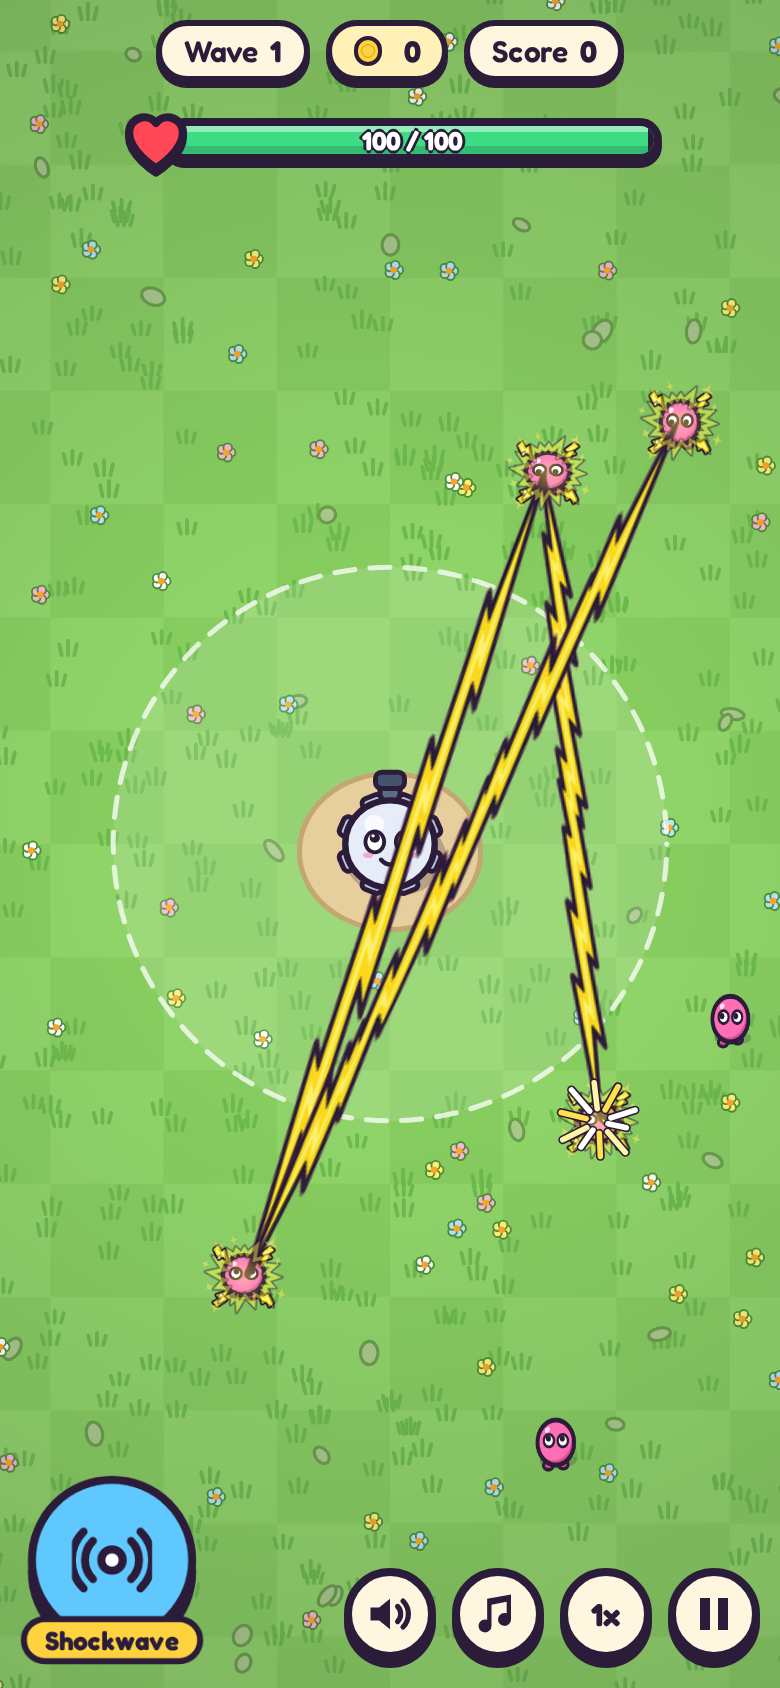
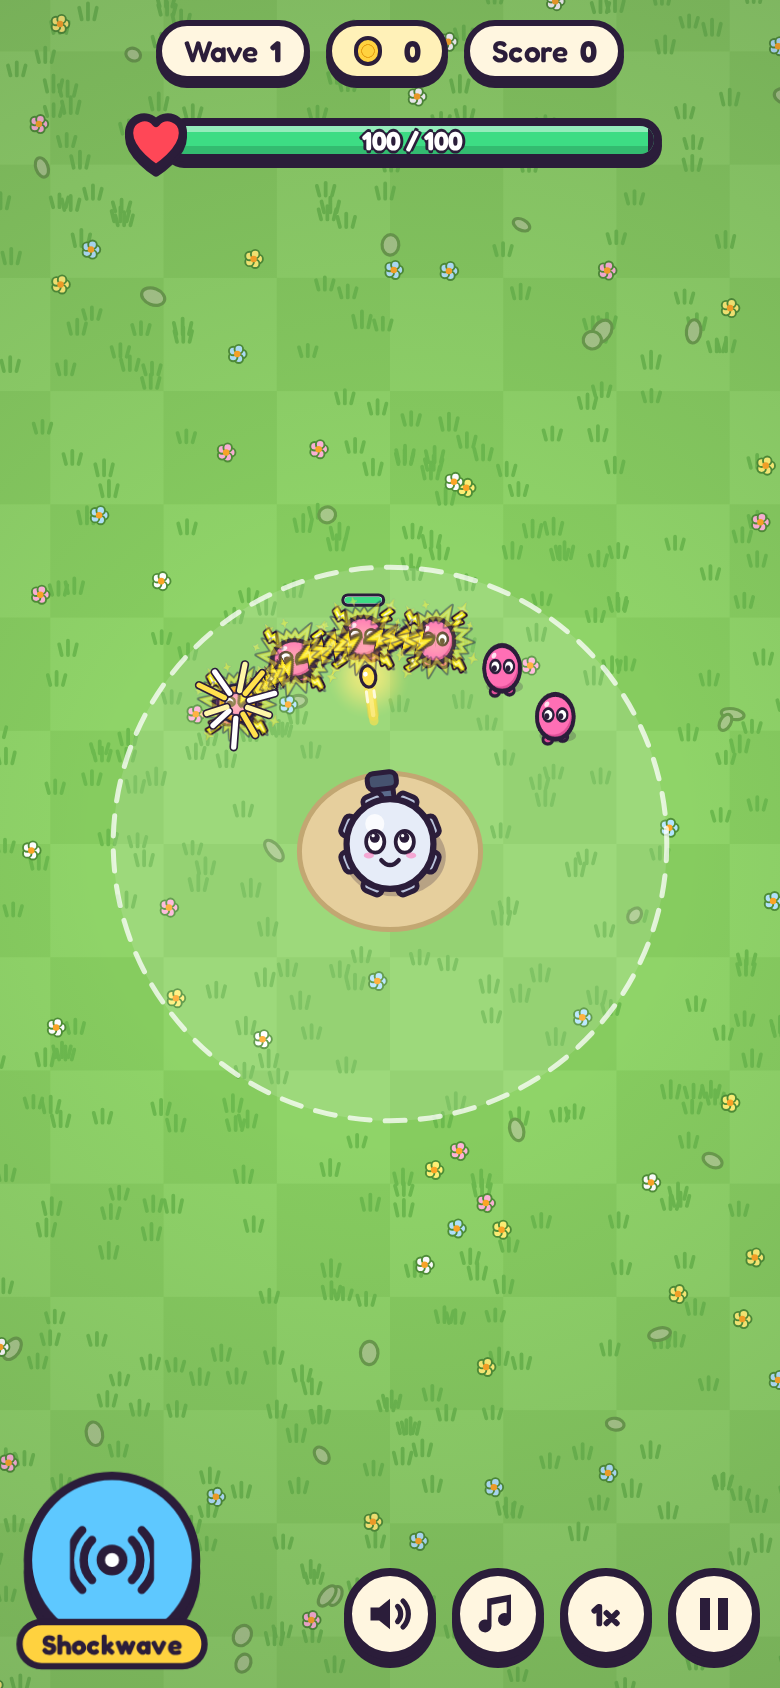
docs + QA: X3 landed in 10a (screen_burst), 10a art v1 + v2 and mappings, no stand-ins left; re-took docs/qa/pr10a with the screen flash (06) and motes / trails (07), contact sheet, main-vs-10a compare

diff --git a/docs/OO-MIGRATION.md b/docs/OO-MIGRATION.md
@@ -204,7 +204,7 @@ What "adding one" needs today (traced at `ca3e982`):
 |---|---|---|---|---|
 | X1 | `render/OverdriveRing.js:4-12` (drawn by `BackdropLayer.js:12`) | CD, LC | entry `overdriveAura` → `overdrive_aura.json` | 10a |
 | X2 | `fx/draw/ChainArcs.js:5-47`, plus glow recolour by `a.color` :41-42 and `ChainSpark.js:30` colour | CD, RC, LC (white flash ring) | entries `chainBolt` (`chain_bolt.json`), `chainArcFlash` (`chain_arc_flash.json`), `chainNodeGlow` | 10a |
-| X3 | `fx/draw/ImpactFlashes.js:6-20` | RC | entry `screenBurst` → `screen_burst.png` (Decision 12), opacity fade only | 10a |
+| X3 | `fx/draw/ImpactFlashes.js:6-20` | RC | **Landed in PR 10a:** entry `impactFlash` → `screen_burst/screen_burst.png` (Game Art v2, non-white amber; Decision 12), the old flash's size and fade, opacity fade only. The X13 white overlay flash moves to the same art in 10b | 10a |
 | X4 | `fx/draw/TowerGroundGlow.js:5-17` + `FxPresets.js:38-45` | RC, LC | entry `towerAura` with `tiers:["tower_aura_t0" … "t4"]` | 10a |
 | X5 | `fx/draw/GlowSprites.js:10-27`: a radial gradient canvas made per CSS colour. This is the recolour engine behind X2, X3, X4, X6, X7, X8 and P2 | CD, RC | Delete. Named glow images (`glow_gold.png`, …) | 10a |
 | X6 | `fx/draw/ImpactPulses.js:16-29` stroked rings in `p.color` + glow recolour :20; colour from `FxDirector.js:90` (card colour) and `ImpactSync.js:51` | CD, RC | entry `impactRing` with variants (`impact_ring_gold/red/blue/green/purple.json`) | 10a |
@@ -334,18 +334,19 @@ Each PR ships on its own. Each one needs:
 1. **PR 10a: FX manifest + image-backed FX** (X1, X2, X3, X4, X5, X6, X8). **Built on `oo-10a-fx-manifest`; PR open, waiting on Brian's look check.**
    - **Data:** `assets/fx/fx.json` lists effects by id. Each entry names its sheet (an art JSON in a Game Art & Motion format: "strips", or the flat FX sheet the v1 delivery uses, where a grid sheet gives one strip per row) and its settings: size rule, blend, opacity curve, pulse, offset, and low-quality skip. The art JSON carries frames, fps, loop / one-shot and anchor.
    - **Objects:** `FxManifest` (fetch loader, like `LookSheetLibrary`), one generic `SpriteEffect` (sheet, frames, fps, loop / one-shot, anchor, scale, blend, opacity fade only), and `EffectPlayer` (plays any id at a point, with zero code).
-   - **Converted to entries:** OverdriveRing (`overdriveAura`), ChainArcs (`chainBolt`, `chainArcFlash`, `chainNodeGlow`), ImpactFlashes (`impactFlash`; it uses `glow_gold` until 10b points the same entry at `screen_burst`, a data-only swap), TowerGroundGlow (`towerAura`, one sheet per tier), ImpactPulses (`impactRing.*` and `impactBloom.*`, picked by impact name), and TextGlows (`textGlow.<kind>`). Callers ask by id.
+   - **Converted to entries:** OverdriveRing (`overdriveAura`), ChainArcs (`chainBolt`, `chainArcFlash`, `chainNodeGlow`), ImpactFlashes (`impactFlash` → `screen_burst`, Decision 12), TowerGroundGlow (`towerAura`, one sheet per tier), ImpactPulses (`impactRing.*` and `impactBloom.*`, picked by impact name), and TextGlows (`textGlow.<kind>`). Callers ask by id.
    - **Deleted:** GlowSprites, the radial-gradient recolour engine. The 10b drawers (ParticleBatch, ProjectileTrails) get named glow images through a colour-to-glow table in `fx.json` until 10b names variants.
    - **Offline cache:** `sw.js` v30 reads `fx.json` at install and caches every sheet JSON and PNG it lists.
    - **Tests:** a data-only acceptance test (temp entry + PNG fixture plays with zero code edits), render-test updates, and `tools/fx-art-scan.js` (fails on fill / stroke / arc / gradient / tint calls in the converted files).
    - **Art (asked of Game Art & Motion, Nov 16):** `overdrive_aura`, `chain_bolt`, `chain_arc_flash`, `chain_node_glow`, `tower_aura_t0`–`t4`, `glow_<10 colours>`, `impact_ring_<5 colours>` (section G art list rows 1–4 and 6–8).
-   - **Art landed (Game Art & Motion PR10a effects v1, Nov 16):** 24 sheets in `assets/fx/` (sub-folders per effect), byte-identical to the delivery, with its `PROVENANCE.json` and `LICENSE.md`; about 3.4 MB. `fx.json` is built from the delivery's `fx.manifest.json` in our schema. The delivered glow colours are amber, blue, cyan, gold, green, lime, orange, pink, purple and red (no pale or yellow): pale / yellow / white uses map to gold, frost and shatter blooms to cyan, venom blooms to lime.
+   - **Art landed (Game Art & Motion PR10a effects v1, Nov 16, plus v2 additions at 9:58 AM ET):** 27 sheets in `assets/fx/` (sub-folders per effect), byte-identical to the delivery, with its `PROVENANCE.json` (every PNG listed with its sha256; `tools/fx-test.js` checks it) and `LICENSE.md`; about 3.7 MB. `fx.json` is built from the delivery's `fx.manifest.json` in our schema. Glow colours: amber, blue, cyan, gold, green, lime, orange, pink, purple, red, plus v2 **pale** (warm cream) and **yellow**. v2 also brought `screen_burst` (amber, no near-white pixels), which closes the PR Verifier's P2-1 stand-in (the flash had used `glow_gold`). Mapping: white and pale (`#ffffff`, `#fff3a0`, `#fff6a8`) → `glow_pale`, yellow (`#ffe14d`, `#ffe680`) → `glow_yellow`, gold stays gold (P3-2); boss kill, finale, tier-up and spark blooms → `impactBloom.pale` (their old bloom colour); frost / shatter blooms → cyan, venom → lime. **PR 10a is complete: no stand-in art left.**
    - **Sizes (a design call: match the look each effect replaces, not the delivery preview).** Game Art's preview assumed fixed CSS sizes; ours follow the old drawing (CSS px at the phone's 0.629 px per world unit):
      - overdrive: frame half-width 2.25 x tower radius (about 74 px; preview 72), so the flames reach as far as the old disc's pulse;
      - tower aura: 2.22 to 3.6 x tower radius by tower power (about 73 to 118 px; preview 90), matched to the old glow's alpha mass;
      - chain bolt: stretched along each hop, about 18 px thick (preview 64 x 12), matching the old jag envelope;
      - arc flash 44 px (preview 28; its last ring at the old radius 22) and node glow 30 px (preview 14; the old radius 24);
-     - glows: coin 22, crit 30, impact flash half the screen's long side, blooms 0.35 to 0.7 x the impact ring (preview 20);
+     - glows: coin 22, crit 30, blooms 0.35 to 0.7 x the impact ring (preview 20);
+     - screen burst: half the 512 frame = half the screen's long side, centred on the impact (844 px across on a 390 x 844 phone; preview 900 px centred), the old flash's size; the art's alpha-mass radius 0.41 matches the old glow's 0.43. Opacity = flash strength x (1 - life)^2, the old timing;
      - impact rings: relative to each impact's ring radius (30 to 320 world units), ending on it as the old stroke did (preview 48 px fixed). Small element rings match the old look. Big rings (boss kill, finale, tier-up, cards) come out much thicker than the old 3 to 12 px stroke, because the art's band scales with the ring. That is a look question for Brian (`docs/qa/pr10a/pr10a-03b`, `-03c`).
 2. **PR 10b: The rest of the canvas FX** (X7, X12, X13, X14, P2, P3).
    - ParticleBatch motes and streaks and ProjectileTrails become `fx.json` entries.
